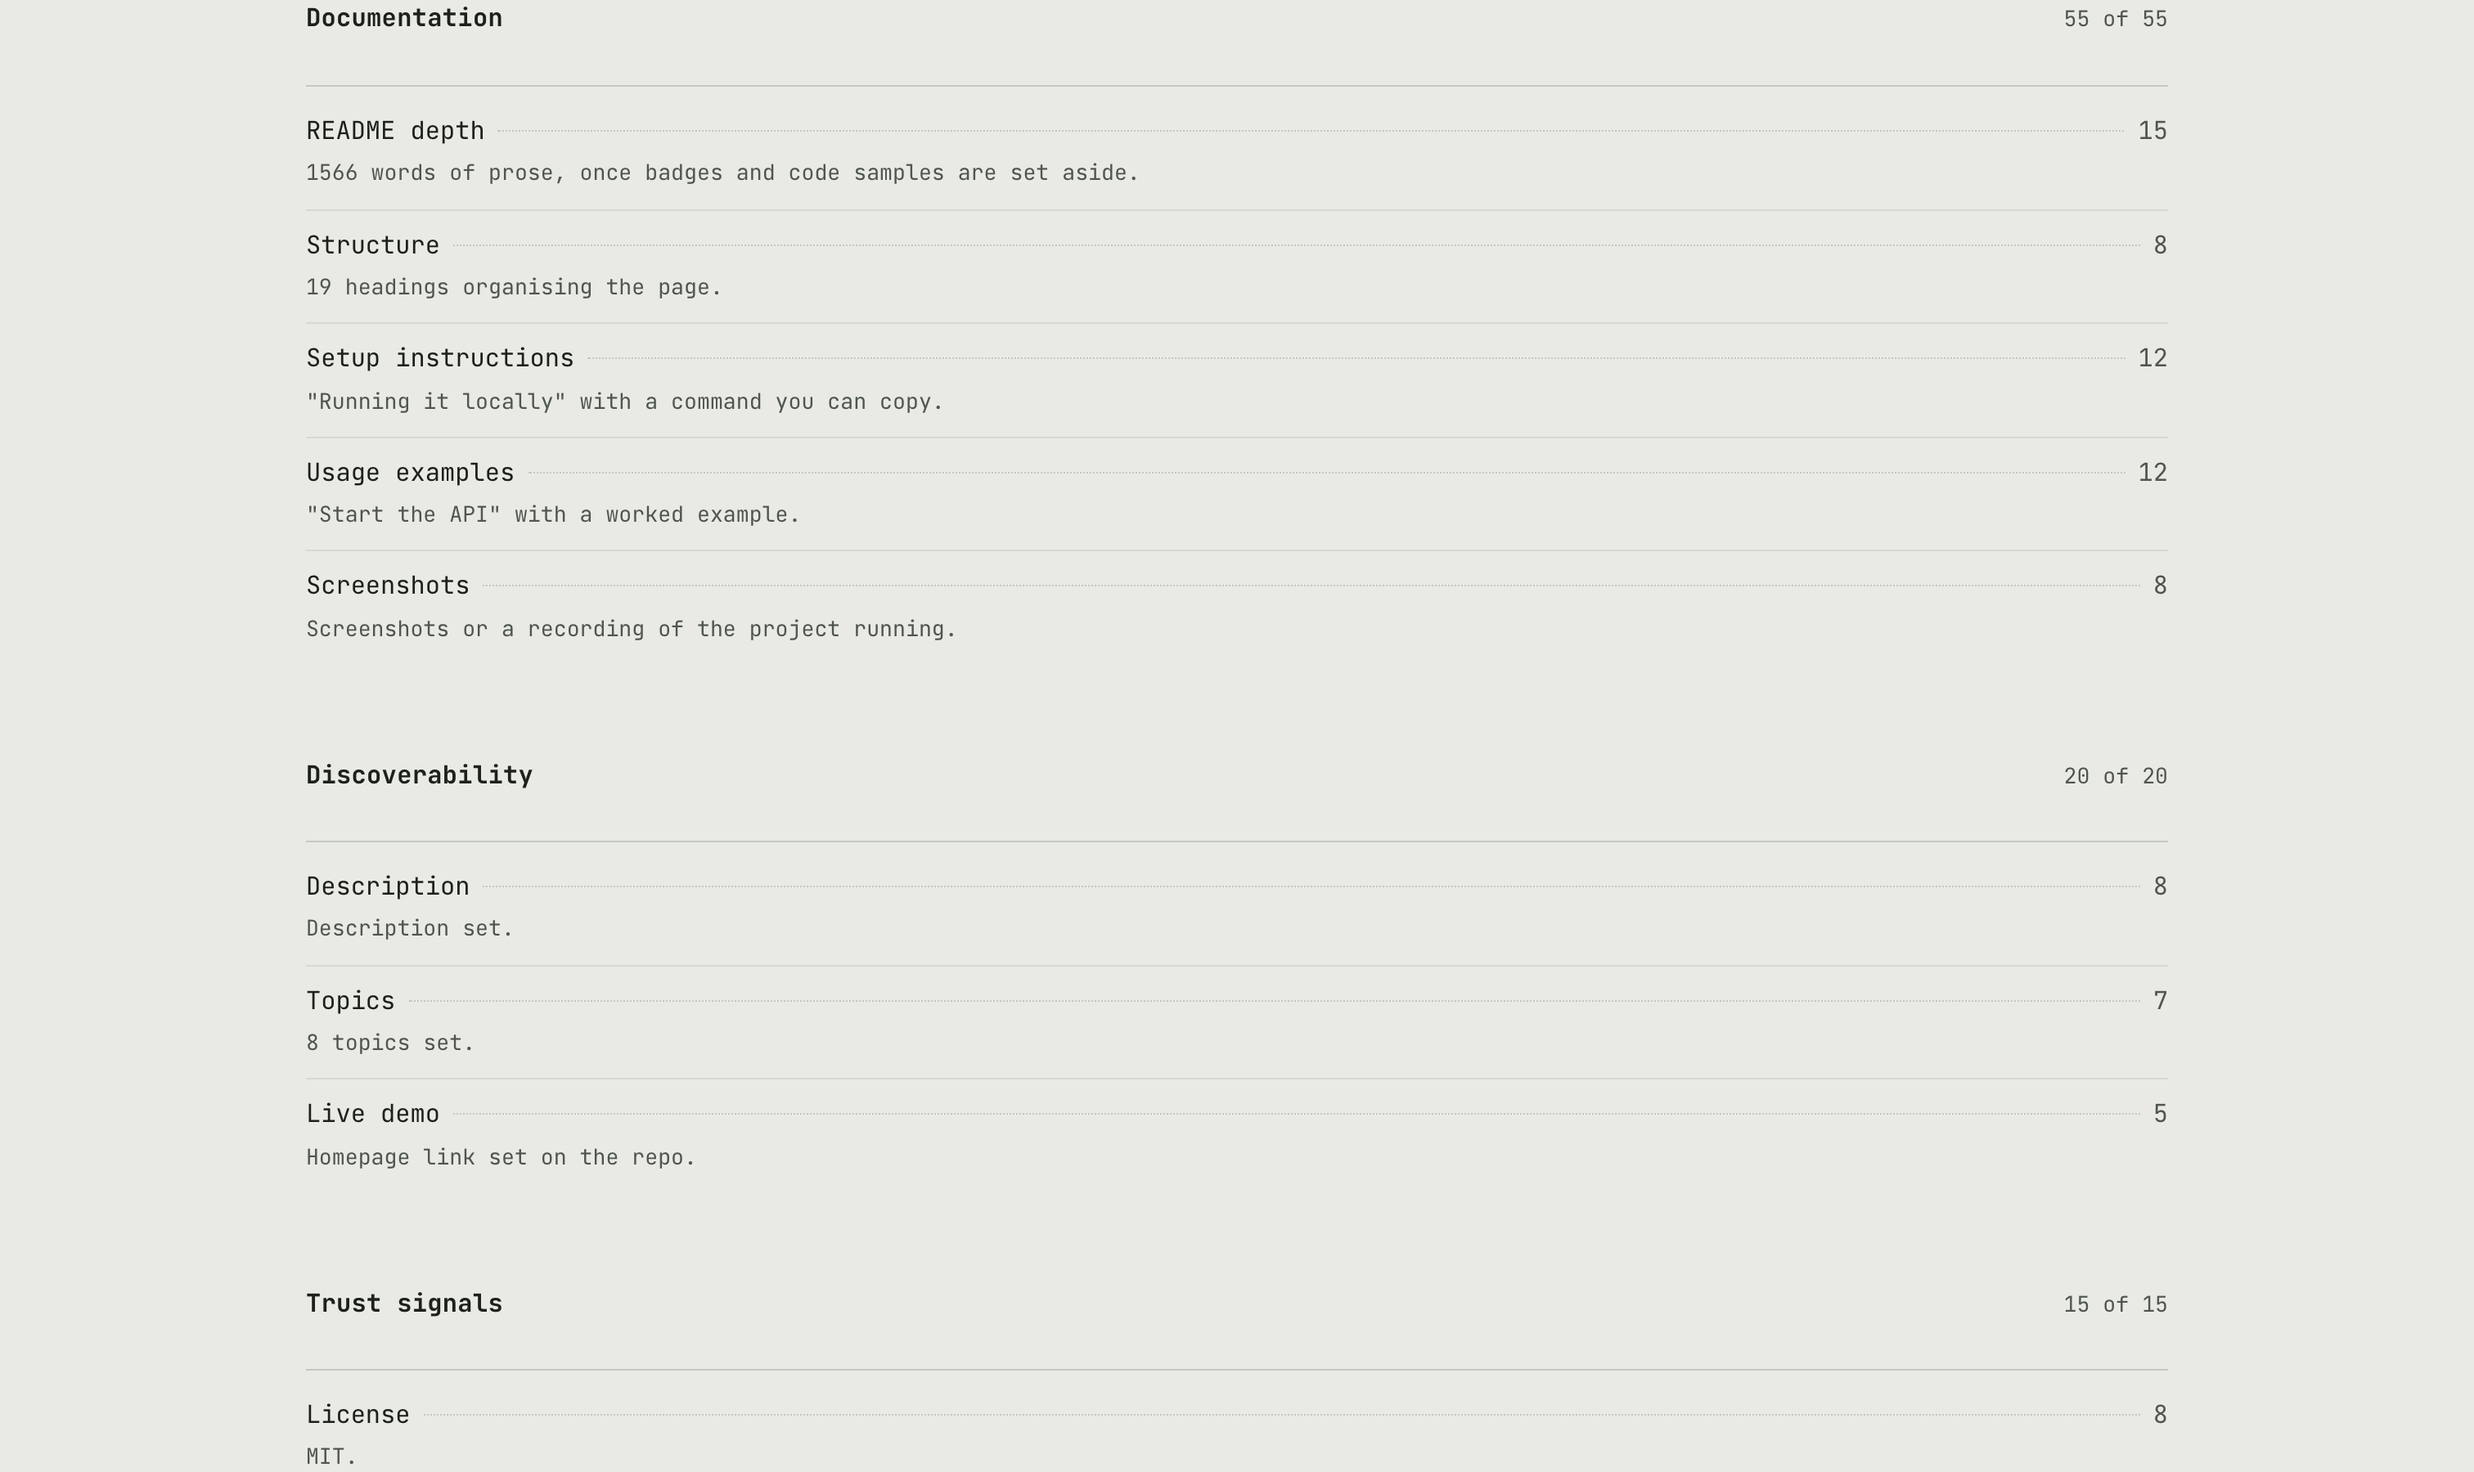
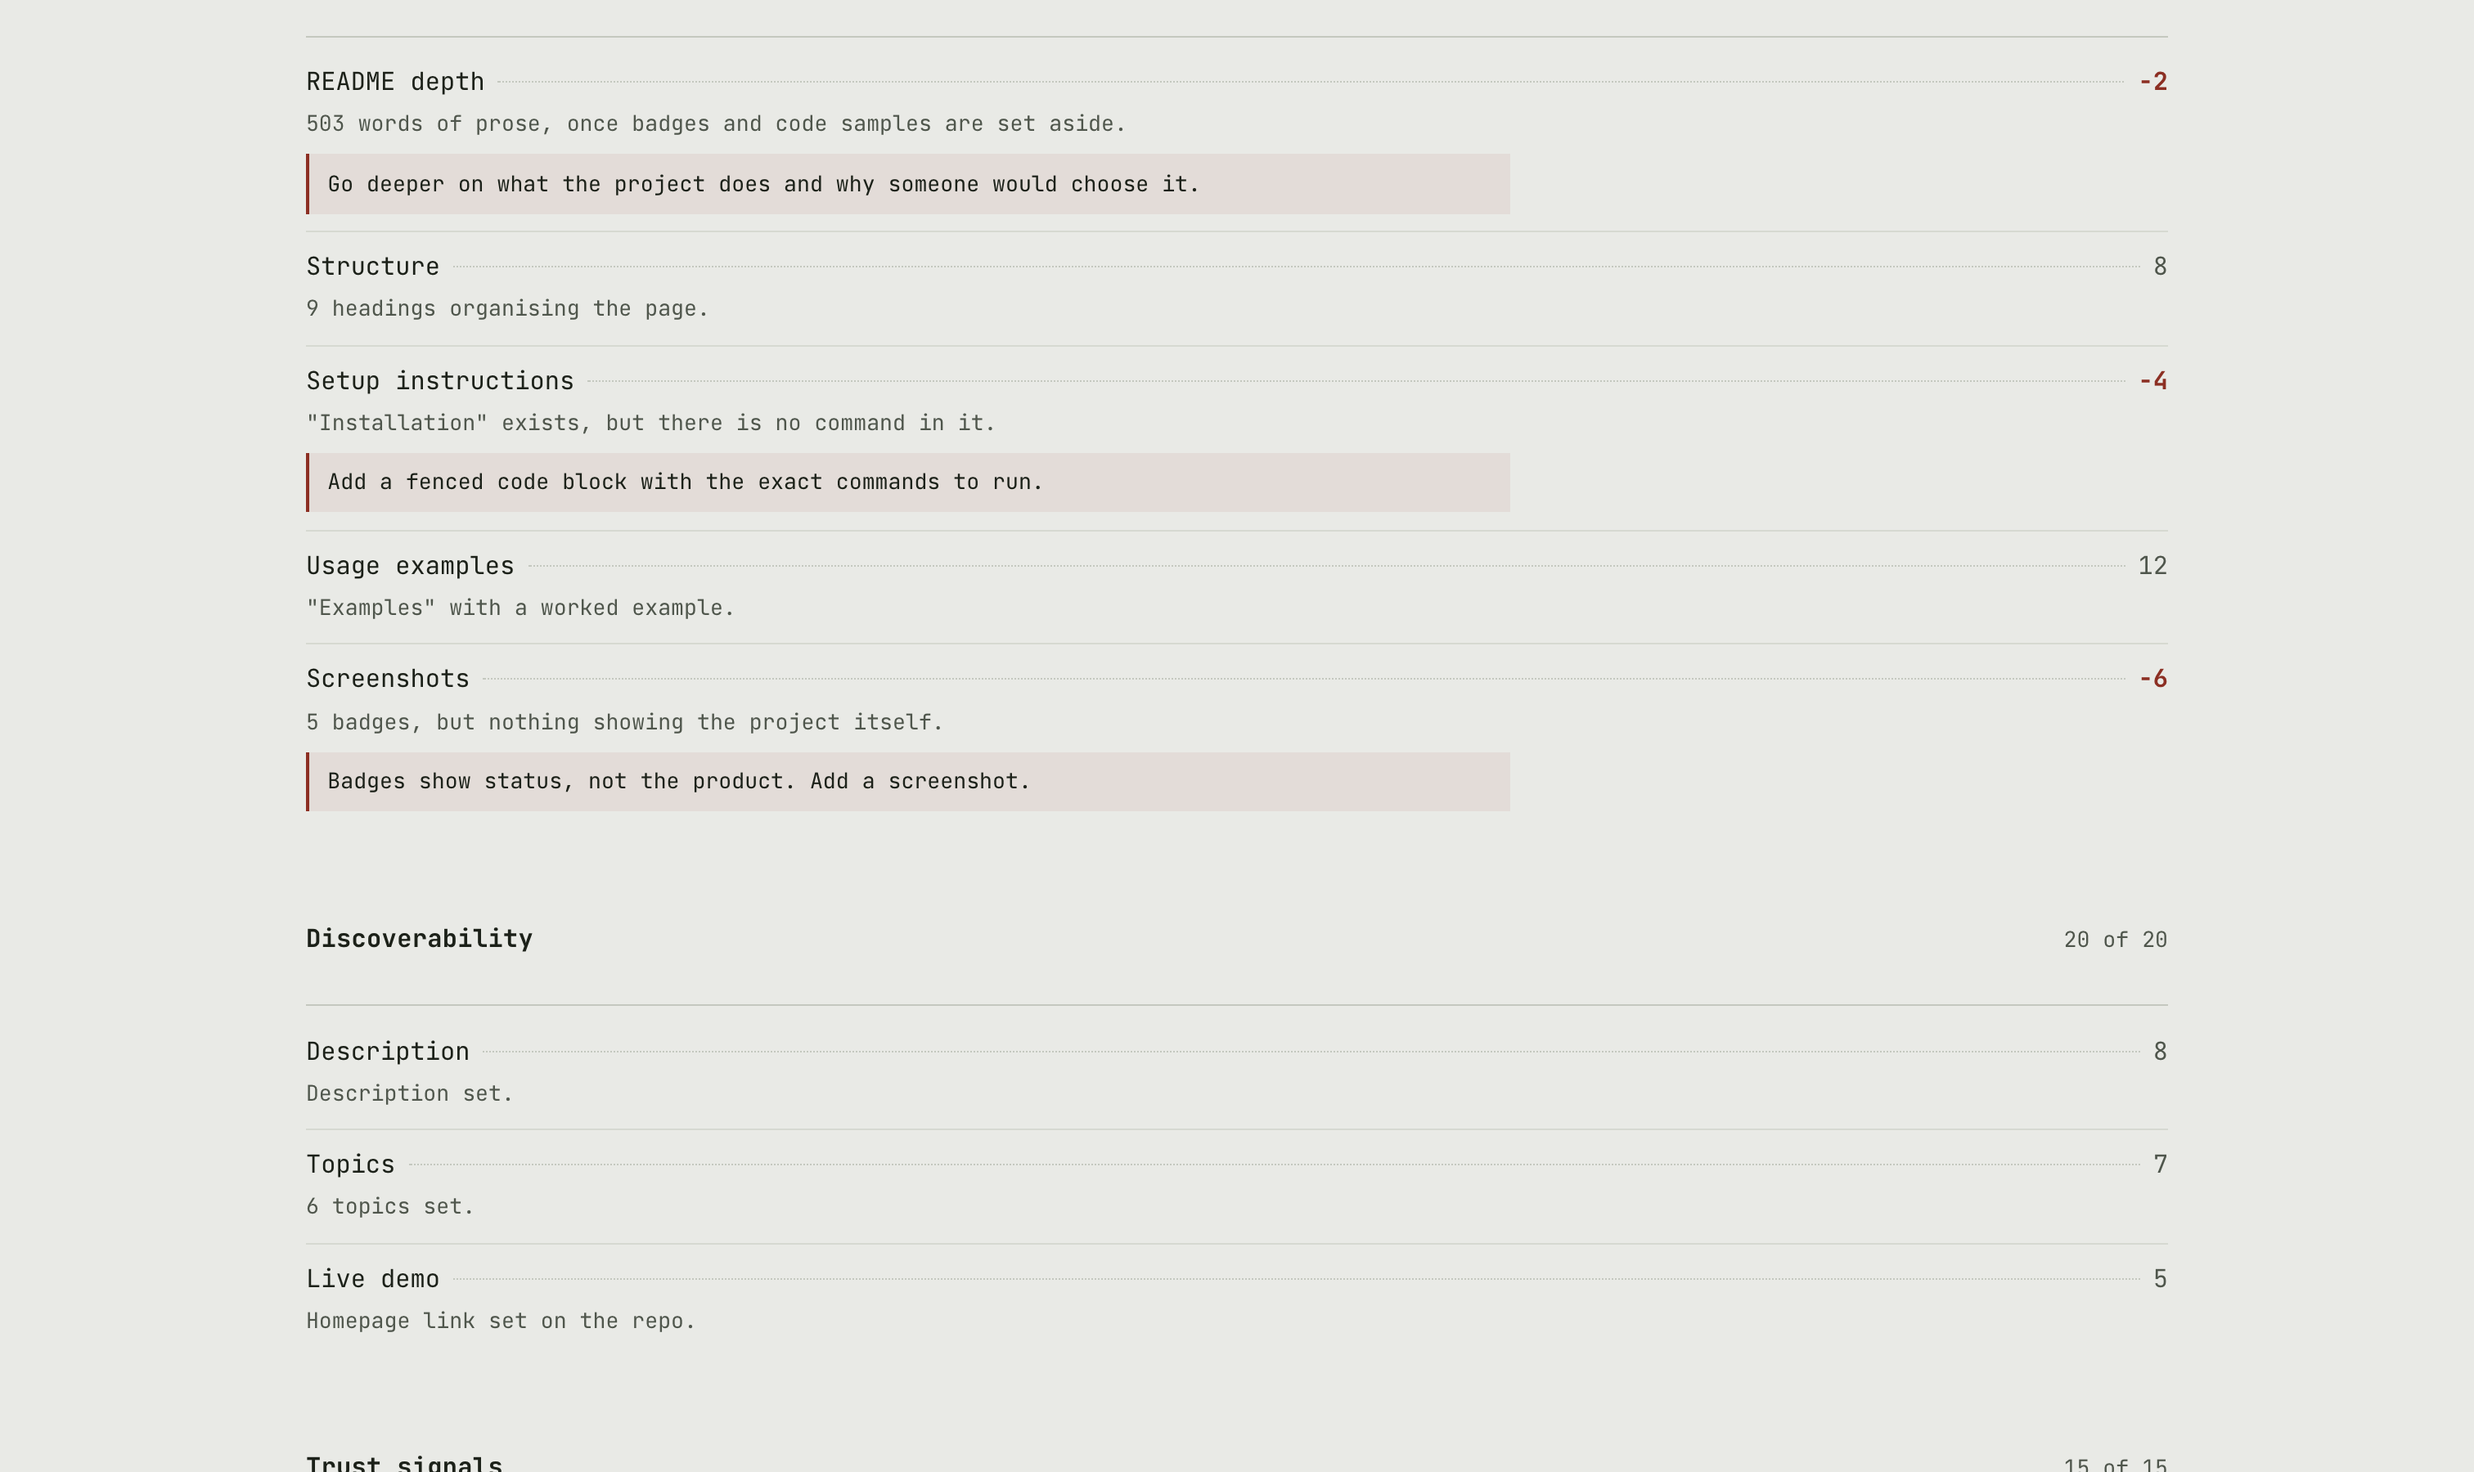
Stop tinting repo scores, and show a ledger that has deductions in it
Two things the dark and mobile passes over the profile view turned up.

The repository rows tinted any score under 85 with the deduction accent,
which is traffic-light scoring wearing a single light. Section 2 of DESIGN.md
rules that out on purpose, and the accent is defined as "points were taken
off" rather than "this number is low", so an 82 was being painted as a
failure. Scores are points earned, so they take the quiet tone; the list is
ordered best first, and that is what conveys standing.

The README's main screenshot was GitRep grading itself at 100 out of 100,
which is a poor advertisement for a tool whose entire point is showing you
what you lost and how to get it back. It now grades facebook/react at 88,
where three checks fall short and each carries its fix.

Both profile views were also checked at 375px and in dark for the first
time: no horizontal scroll, nothing overflowing, fixes wrapping cleanly.

diff --git a/frontend/src/components/ProfileReport.jsx b/frontend/src/components/ProfileReport.jsx
@@ -99,7 +99,7 @@ export default function ProfileReport({ report, onPickRepo }) {
                 <LedgerRow
                   label={repo.name.split("/")[1] || repo.name}
                   points={`${repo.score}`}
-                  tone={repo.score >= 85 ? "is-pass" : "is-loss"}
+                  tone="is-pass"
                   index={index}
                 />
                 <span className="repo-row-meta">

diff --git a/DESIGN.md b/DESIGN.md
@@ -187,6 +187,10 @@ only then lists the repositories themselves.
 - **States:** default, hover (a `--rule-faint` wash), focus-visible
 - **Why a wash rather than the deduction colour:** the row is a target, not a warning. The
   accent means points lost and nothing else, so a hover cannot borrow it.
+- **Why the score is never coloured:** an early version tinted any score under 85 with the
+  deduction accent. That is traffic-light scoring wearing one light, which Section 2 rules
+  out, and it painted an 82 as a failure. The figure shown is points *earned*, so it takes
+  the quiet tone; the list is ordered best first, which is what conveys standing.
 
 ### Field (`.field` in `styles/app.css`)
 
